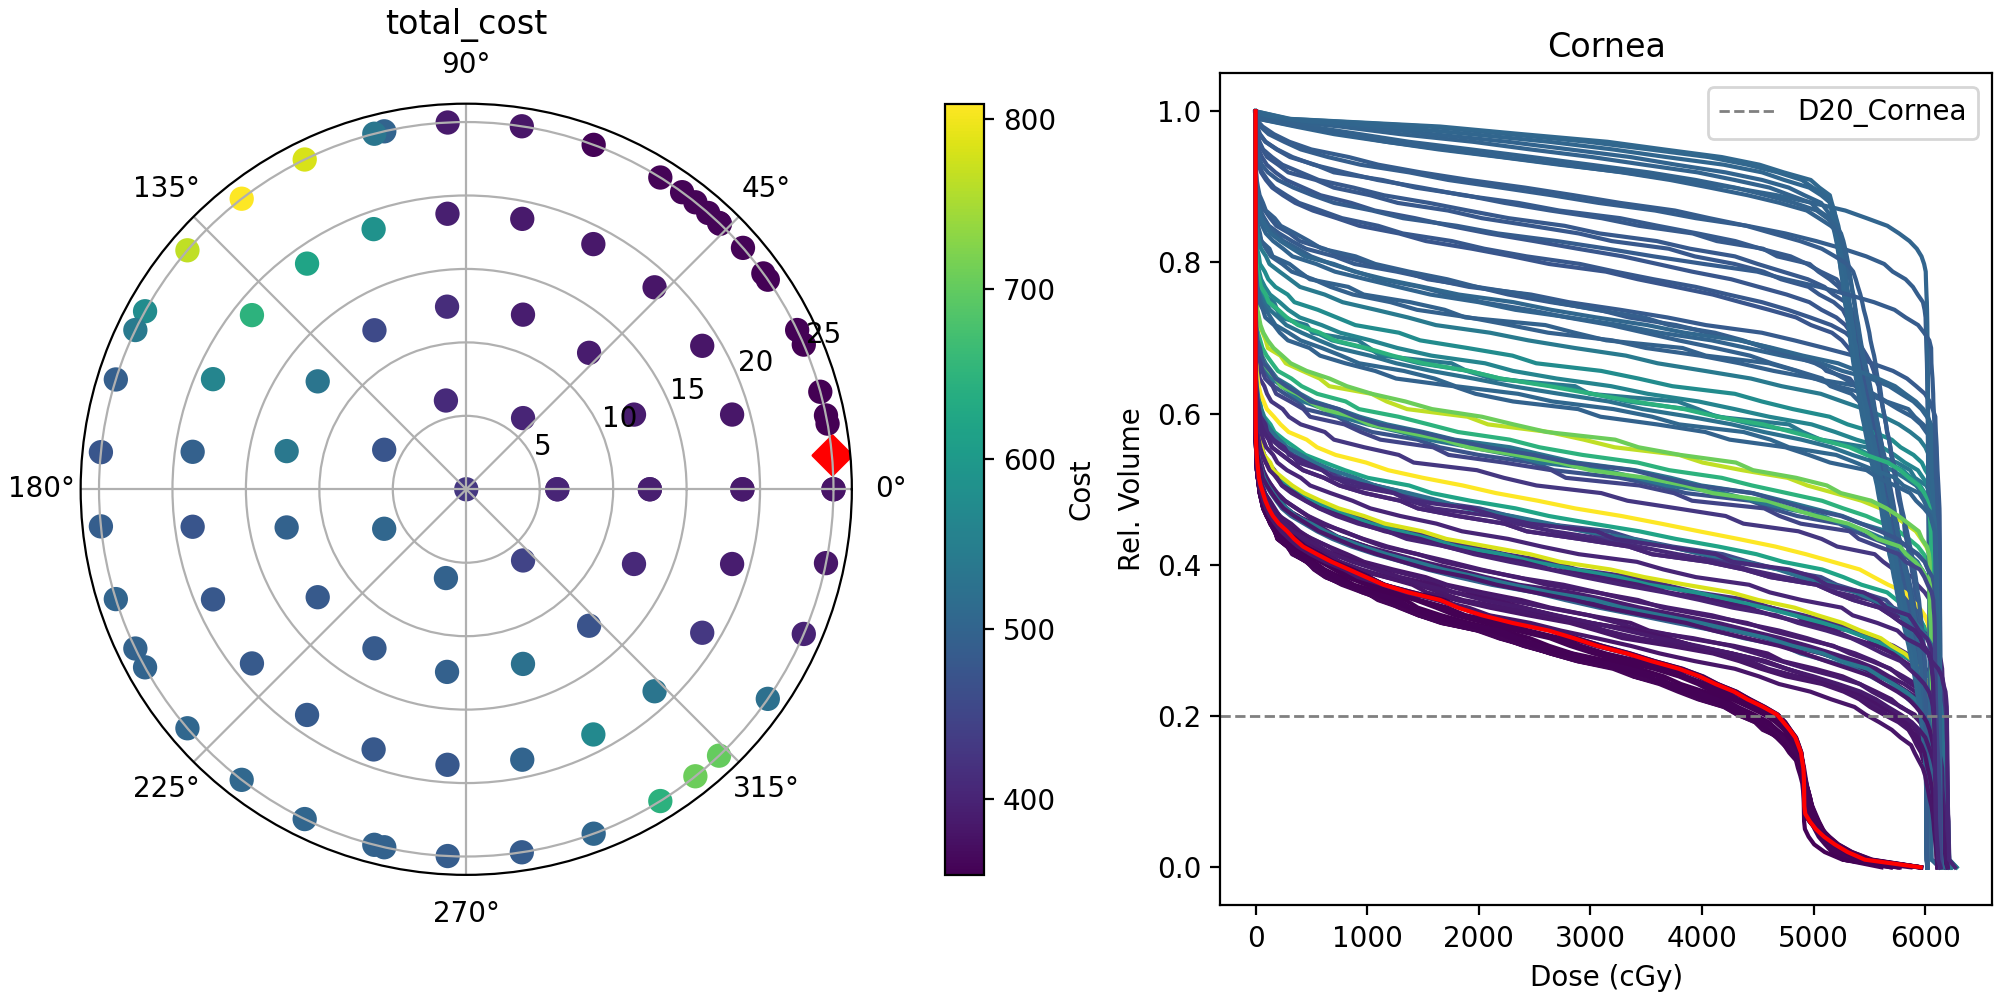
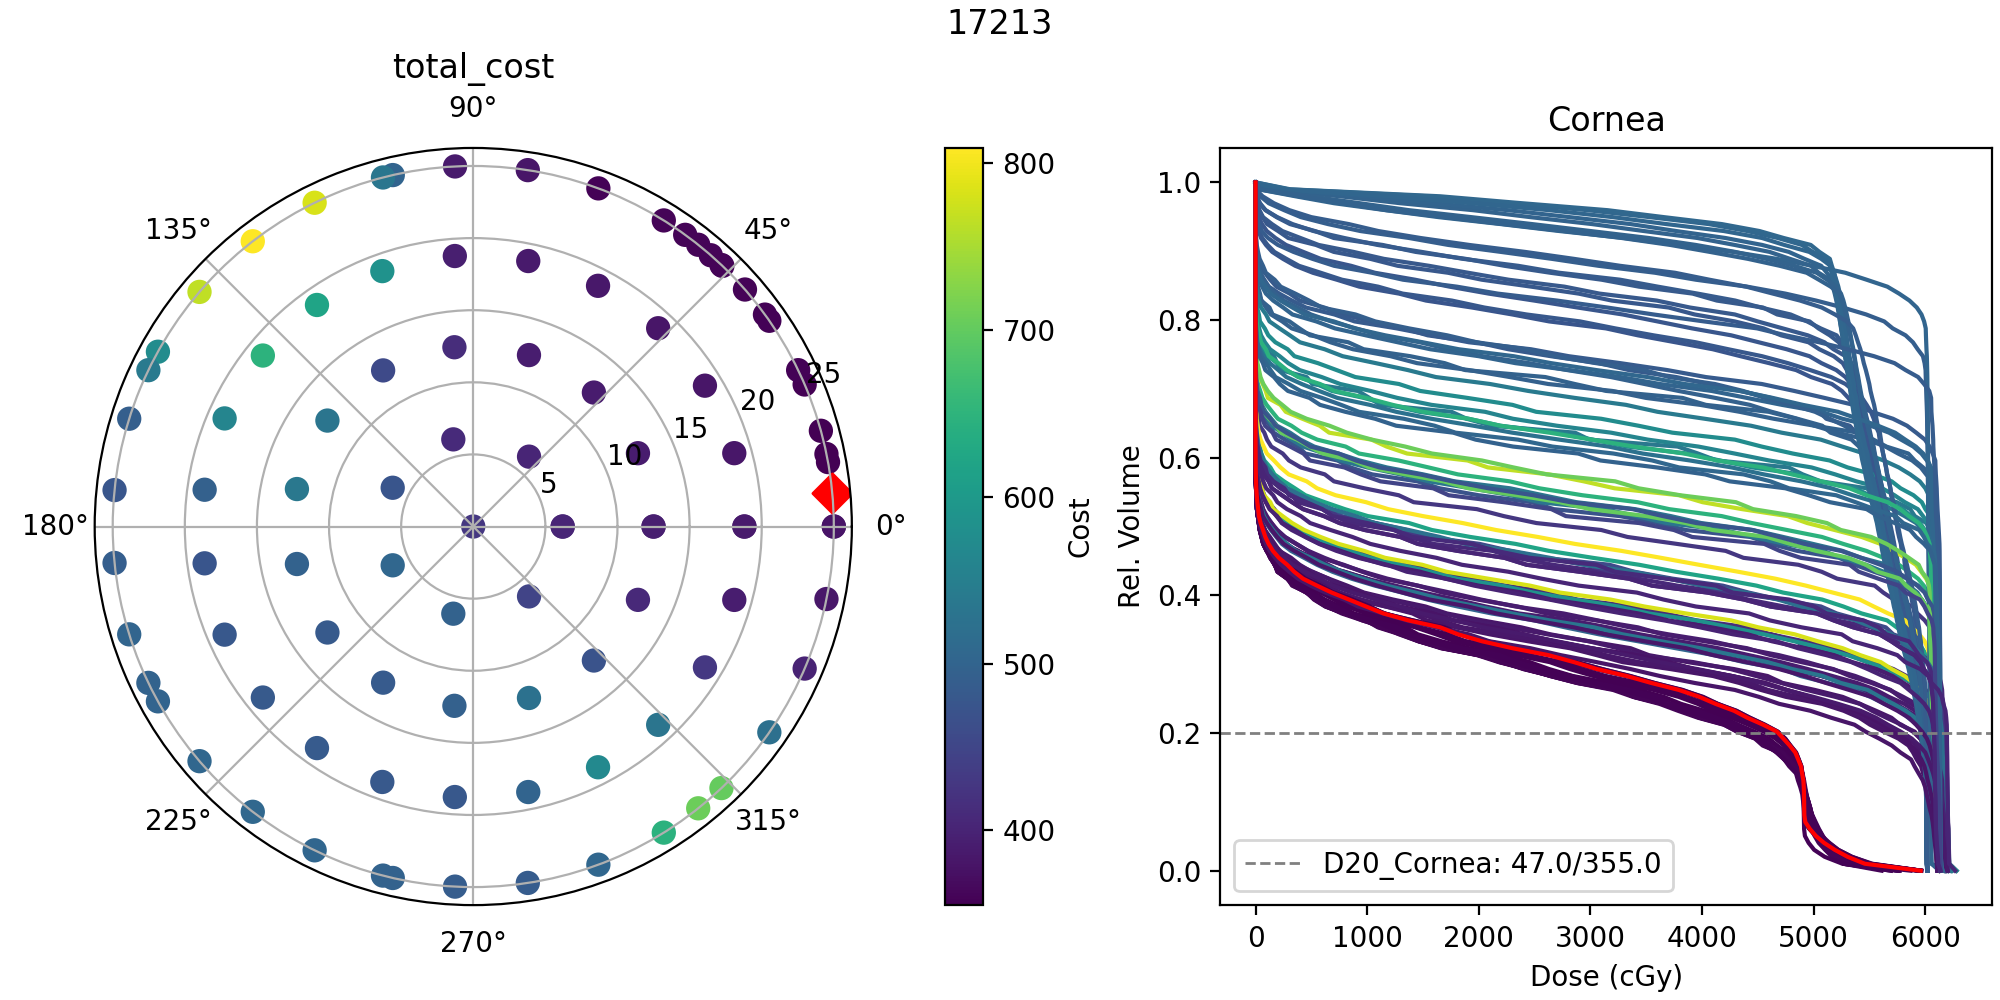
run optimization for patients p23336 and 23129

diff --git a/functions/cost_functions.py b/functions/cost_functions.py
@@ -30,32 +30,6 @@ def cost_volume_term(self) -> float:
         cost += self.weights[w]*np.sum([self.get_volume_at_dose(roi_name=where, dose_values=[dose])*100 for dose in doses])/np.size(doses)     
     return cost
 
-"""
-def expensive_cost(self, gaze_angle: Tuple[float, float]):
-
-    #Cost Function that actually calculates the cost. Only to be used by cached_cost
-    #x = [polar, azimuthal]
-    #Saves full evaluation in eval_df but returns only the cost.
-
-    self.set_gaze_angles(gaze_angle=gaze_angle)
-    self.calculate_dose()
-    metrics = self.get_metrics()
-    volume_term = self.cost_volume_term()
-    weights_arr = np.array([float(i) for i in self.weights.values()])
-    metrics_arr = np.array([float(i) for i in metrics.values()])
-    total_cost = weights_arr@metrics_arr + volume_term
-
-    #Add results to self.cost_df
-    new_row = {('dvh_points', metric): metrics[metric] for metric in metrics}
-    new_row[('gaze_angles', 'polar')] = gaze_angle[0]
-    new_row[('gaze_angles', 'azimuthal')] = gaze_angle[1]
-    new_row[('dvh_points', 'dose_volume_penalty')] = volume_term
-    new_row[('total_cost', 'cost')] =  total_cost
-    new_row_df = pd.DataFrame(new_row, index=[0])
-    self.cost_df = pd.concat([self.cost_df, new_row_df])
-    self.cost_df.to_csv(self.save_path)
-    
-    return total_cost"""
 
 def expensive_cost(self, gaze_angle: Tuple[float, float]):
     """
@@ -114,7 +88,6 @@ def cost(self, gaze_angle: Tuple[float, float]):
     """
     
     gaze_angle = np.round(gaze_angle, 1)
-    print(f'Trying {gaze_angle}')
     key = tuple(gaze_angle)
 
     if key in self.cache:
@@ -127,3 +100,16 @@ def cost(self, gaze_angle: Tuple[float, float]):
         self.cache[key] = total_cost
 
         return total_cost
+
+def find_contributions(self):
+    with h5py.File(self.h5py_file_path, "r") as f:
+        gaze_angle_keys = f['gaze_angles'].keys()
+        angles = np.array([f['gaze_angles'][gaze_angle_key].attrs['gaze_angle'] for gaze_angle_key in gaze_angle_keys])
+        costs = np.array([f['gaze_angles'][gaze_angle_key].attrs['total_cost'] for gaze_angle_key in gaze_angle_keys])
+        min_cost_idx = np.argmin(costs)
+        min_angles = angles[min_cost_idx]
+        min_angle_key = f'{min_angles[0]}_{min_angles[1]}'
+        metrics = {weight: f['gaze_angles'][min_angle_key].attrs[weight] for weight in self.weights}
+        contributions = {metric: self.weights[metric]*metrics[metric] for metric in metrics}
+        contributions['volume_term'] = costs[min_cost_idx] - np.sum([float(contributions[contribution]) for contribution in contributions])
+        return contributions

diff --git a/functions/plotting.py b/functions/plotting.py
@@ -22,7 +22,7 @@ def single_gaze_plot(self, ax, metric):
     sc = ax.scatter(theta, polar, c=cost, cmap='viridis', s=60)
 
     if metric != 'total_cost':
-        opt_metric = ax.scatter(np.deg2rad(azimuthal_opt_metric), polar_opt_metric, marker='*', color='gray', s=150, label='Optimum for metric')
+        opt_metric = ax.scatter(np.deg2rad(azimuthal_opt_metric), polar_opt_metric, marker='*', color='red', s=200, label='Optimum for metric')
     opt = ax.scatter(np.deg2rad(azimuthal_opt), polar_opt, marker='D', color='red', s=100, label='Optimum for total cost')
     if metric in ['total_cost', 'volume_term']:
         label = 'Cost'
@@ -63,6 +63,7 @@ def full_scatter_plot(self):
 
 
 def dvh_metric_plot(self, metric):
+    contributions = self.find_contributions()
     fig = plt.figure(figsize=(10, 5), constrained_layout=True)
     ax_scatter = fig.add_subplot(1, 2, 1, projection='polar')
     ax_lines = fig.add_subplot(1, 2, 2)
@@ -71,6 +72,7 @@ def dvh_metric_plot(self, metric):
     cmap = plt.cm.viridis
     colors = cmap((cost - cost.min()) / (cost.max() - cost.min()))
     min_idx = np.argmin(cost)
+    min_cost = cost[min_idx]
     y = np.linspace(0, 1, self.num_dvh_bins)
     with h5py.File(self.h5py_file_path, "r") as f:
         gaze_angle_keys = f['gaze_angles'].keys()
@@ -81,14 +83,15 @@ def dvh_metric_plot(self, metric):
                 ax_lines.plot(dvh, y, color='red', zorder=1000)
     what = x[0]
     value = int(x[1:])
+    label = f'{metric}: {np.round(contributions[metric])}/{np.round(min_cost)}'
     if what == 'D':
-        ax_lines.axhline(y=value/100, color='gray', linestyle='--', linewidth=1, label=metric)
+        ax_lines.axhline(y=value/100, color='gray', linestyle='--', linewidth=1, label=label)
 
     elif what == 'V':
-        print(value)
-        ax_lines.axvline(x=value*100, color='gray', linestyle='--', linewidth=1, label=metric)
-    ax_lines.legend(loc='upper right')
+        ax_lines.axvline(x=value*100, color='gray', linestyle='--', linewidth=1, label=label)
+    ax_lines.legend()
     ax_lines.set_title(roi)
+    fig.suptitle(self.patient_id)
     ax_lines.set_xlabel('Dose (cGy)')
     ax_lines.set_ylabel('Rel. Volume')
 

diff --git a/functions/data_storage.py b/functions/data_storage.py
@@ -13,8 +13,11 @@ def get_row_by_gaze_angle(self, gaze_angle):
 
 def fill_cache_from_h5py(self):
     self.cache={}
-    with h5py.File(self.h5py_file_path, 'r') as f:
-        gaze_angles = f['gaze_angles']
-        for angle_key in gaze_angles.keys():
-            gaze_angle = tuple(f['gaze_angles'][angle_key].attrs['gaze_angle'])
-            self.cache[gaze_angle] = f['gaze_angles'][angle_key].attrs['total_cost']
+    try:
+        with h5py.File(self.h5py_file_path, 'r') as f:
+            gaze_angles = f['gaze_angles']
+            for angle_key in gaze_angles.keys():
+                gaze_angle = tuple(f['gaze_angles'][angle_key].attrs['gaze_angle'])
+                self.cache[gaze_angle] = f['gaze_angles'][angle_key].attrs['total_cost']
+    except FileNotFoundError:
+        return

diff --git a/functions/optimizer.py b/functions/optimizer.py
@@ -92,7 +92,8 @@ class GazeOptimizer:
         print(f'Initial Guess: {initial_guess}')
         res = self.minimizer(initial_guess)
         optimal_angles = res.x
-        return optimal_angles
+        optimal_cost = res.fun
+        return optimal_angles, optimal_cost
         
 
     def expensive_cost(self, polar, azimuthal):
@@ -188,7 +189,13 @@ class GazeOptimizer:
     def full_metric_dvh_plot(self):
         raise NotImplementedError
     
+    def find_contributions(self):
+        raise NotImplementedError
+    
 
+
+GazeOptimizer.full_scatter_plot = full_scatter_plot
+GazeOptimizer.find_contributions = find_contributions
 GazeOptimizer.full_metric_dvh_plot = full_metric_dvh_plot
 GazeOptimizer.dvh_metric_plot = dvh_metric_plot
 GazeOptimizer.full_search = full_search

diff --git a/main.py b/main.py
@@ -13,7 +13,7 @@ def main():
 
 
 
-    patient_id = 'P23336'
+    patient_id = '17213'
     delta_polar = 5
     max_polar_deg = 25
     weights = {'D2_Macula': 3, 'D20_OpticalDisc': 3, 'D20_Cornea': 1, 'V55_Retina':1, 'V27_CiliaryBody': 1, 'D5_Lens': 1}
@@ -26,11 +26,15 @@ def main():
 
     
     start_time = time.time()
-    metric = 'D2_Macula'
-    Optimizer.full_search()
-    end_time = time.time()
+
+
+    #Optimizer.full_search()
+    Optimizer.full_scatter_plot()
     Optimizer.full_metric_dvh_plot()
 
+
+
+    end_time = time.time()
     elapsed_time = end_time - start_time
     print(f"Elapsed time: {elapsed_time:.2f} seconds")
 

diff --git a/functions/full_search.py b/functions/full_search.py
@@ -3,4 +3,7 @@ import h5py
 
 def full_search(self):
     self.fill_cache_from_h5py()
-    return self.optimize()
+    angles, cost = self.optimize()
+    print(f'Optimal Gaze Angle: {angles}')
+    print(f'Corresponding Cost: {cost}')
+    return angles, cost
